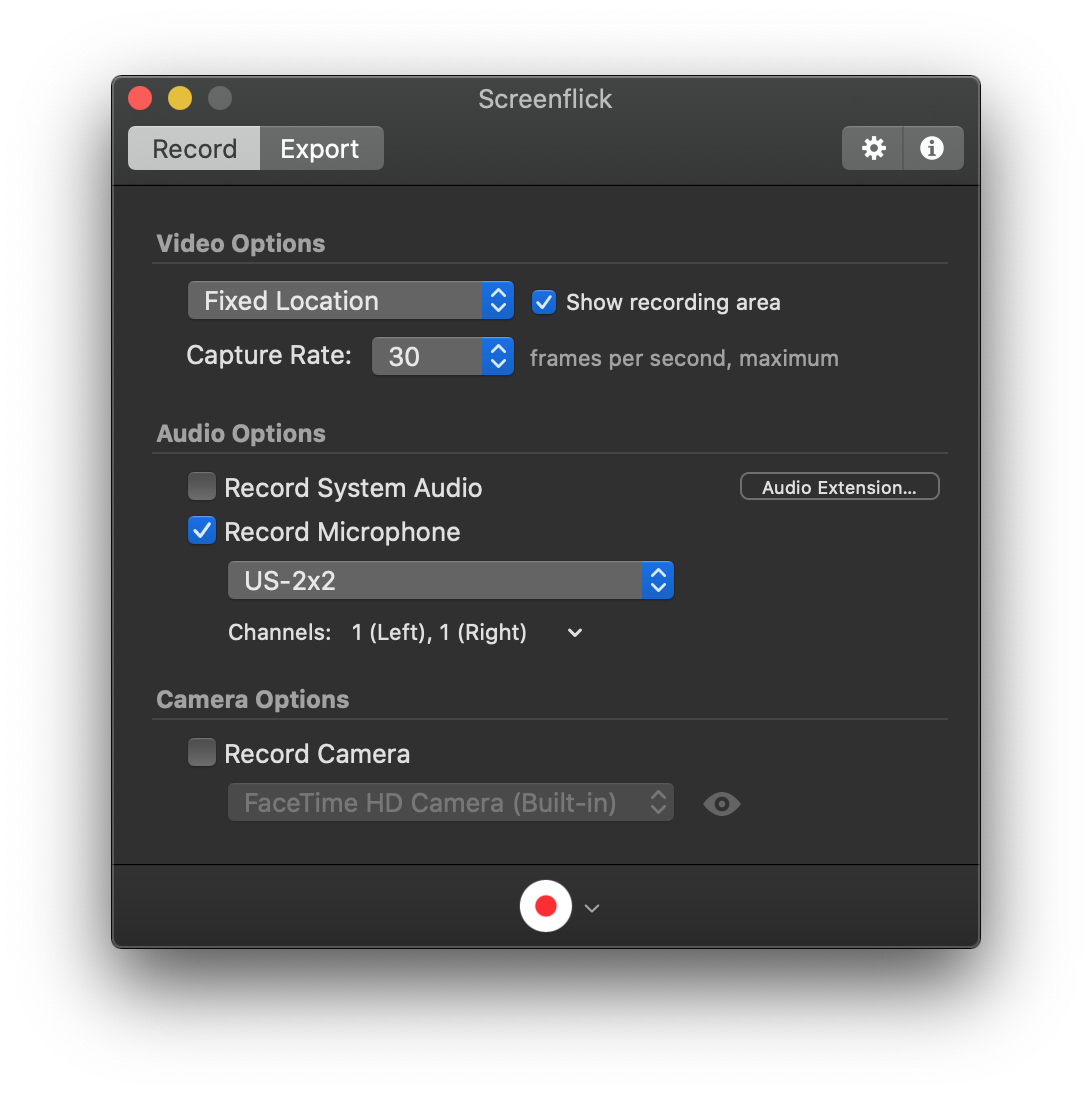
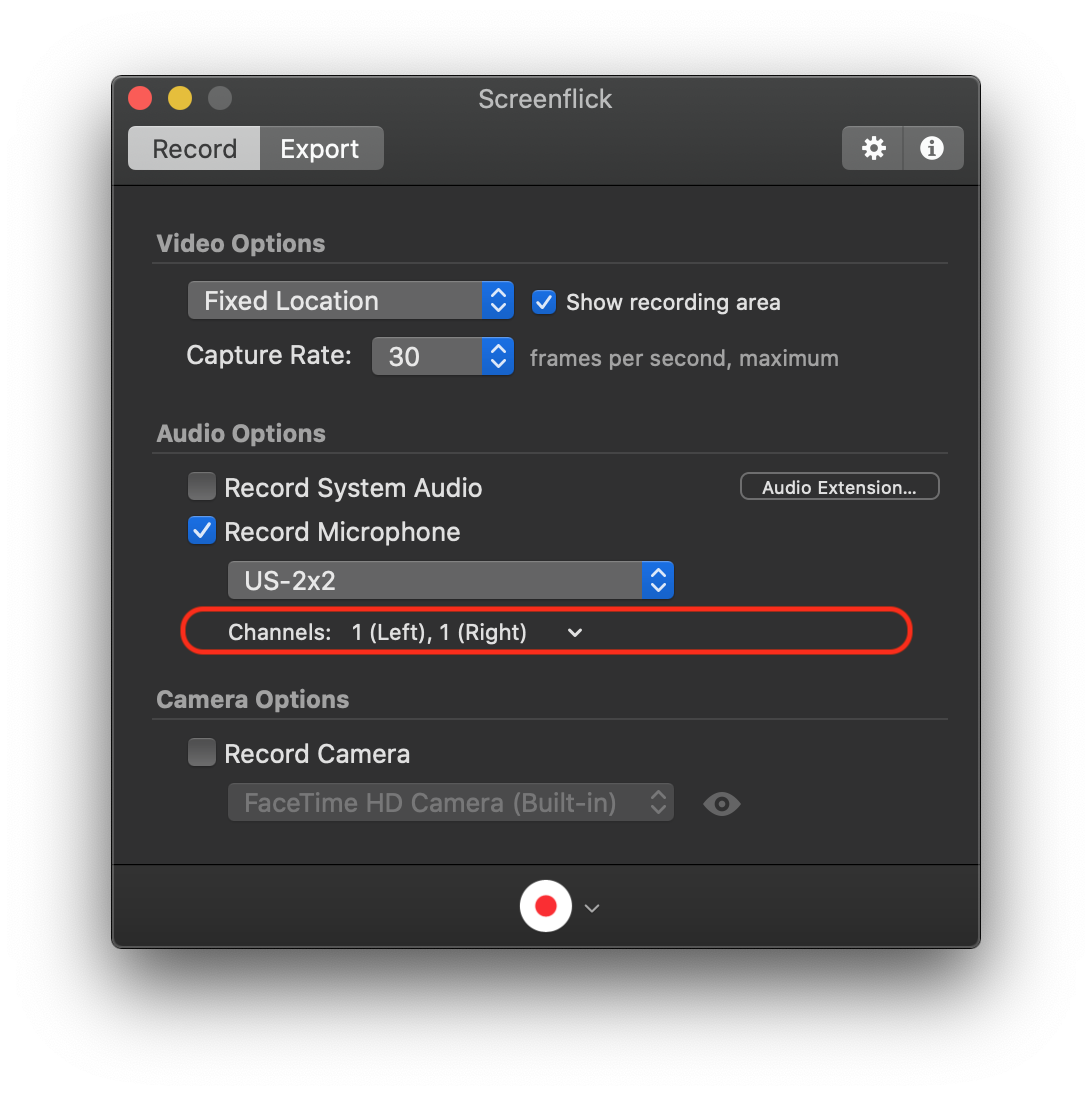
add detail to how to configure audio tracks

Changed region(s): [[0.1868, 0.5584, 0.8407, 0.6204], [0.1868, 0.5274, 0.8095, 0.5584], [0.1557, 0.5584, 0.1868, 0.5894]]

diff --git a/README.md b/README.md
@@ -64,6 +64,10 @@ The preferred option was to use the Record Microphone settings in the following 
 
 ![Screen Flick Audio Settings](./recordChannelSettings.png)
 
+However, in order to expose such a setting we need to enable an advanced setting.
+
+![Show Channel Mappings](./showChannelMappings.png)
+
 If that wasn't done, there is a quick way to fix it.  By using [Handbrake video transcription software](https://handbrake.fr) it is possible to use the same audio track twice.  So Track 0 feeds into Left Only ear, and Right Only ear.
 
 ![Handbrake Audio Settings](./handbrakeAudioSettings.png)
